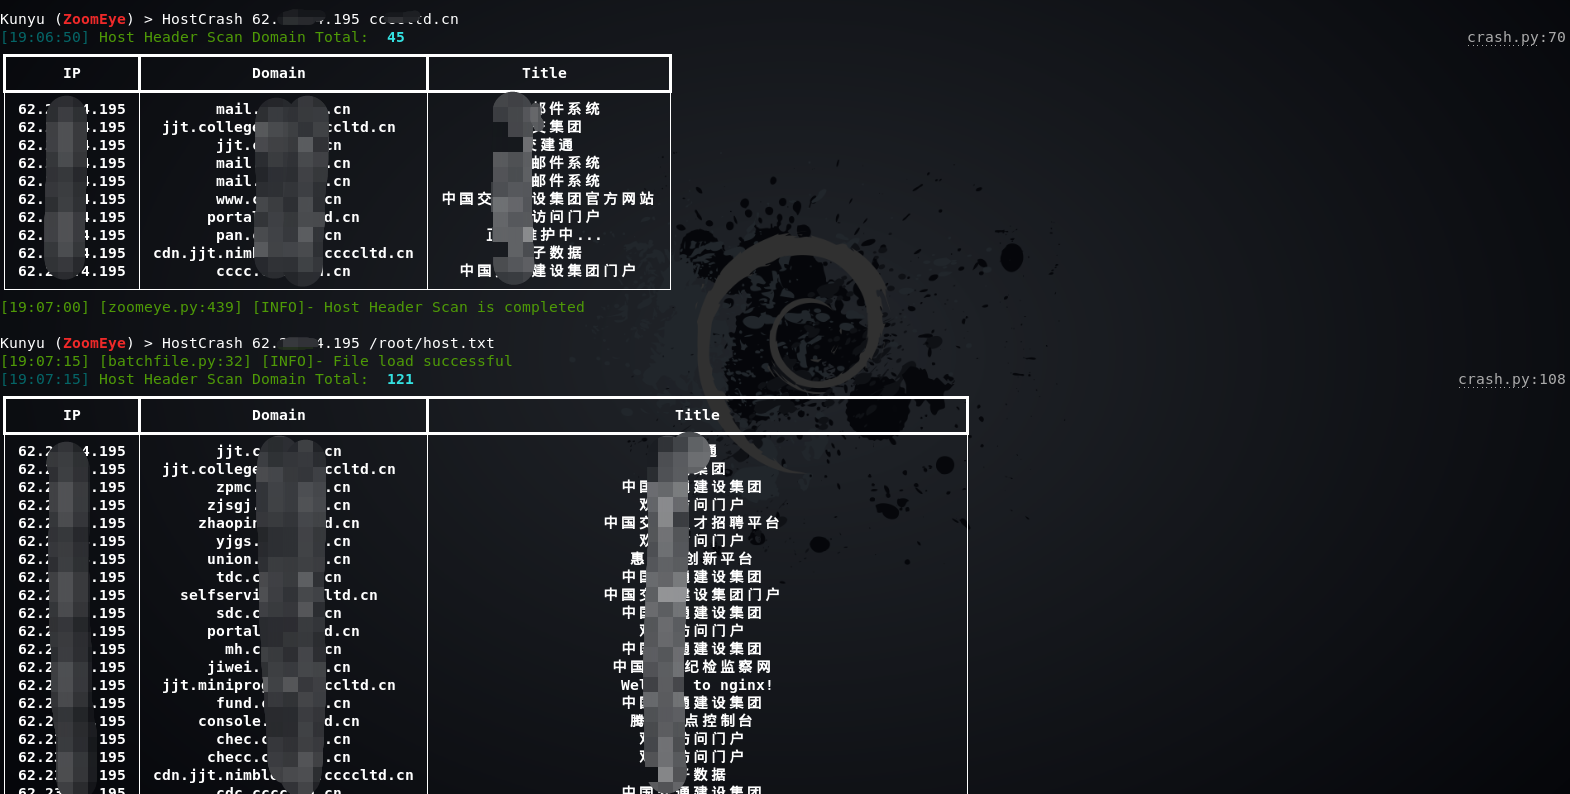
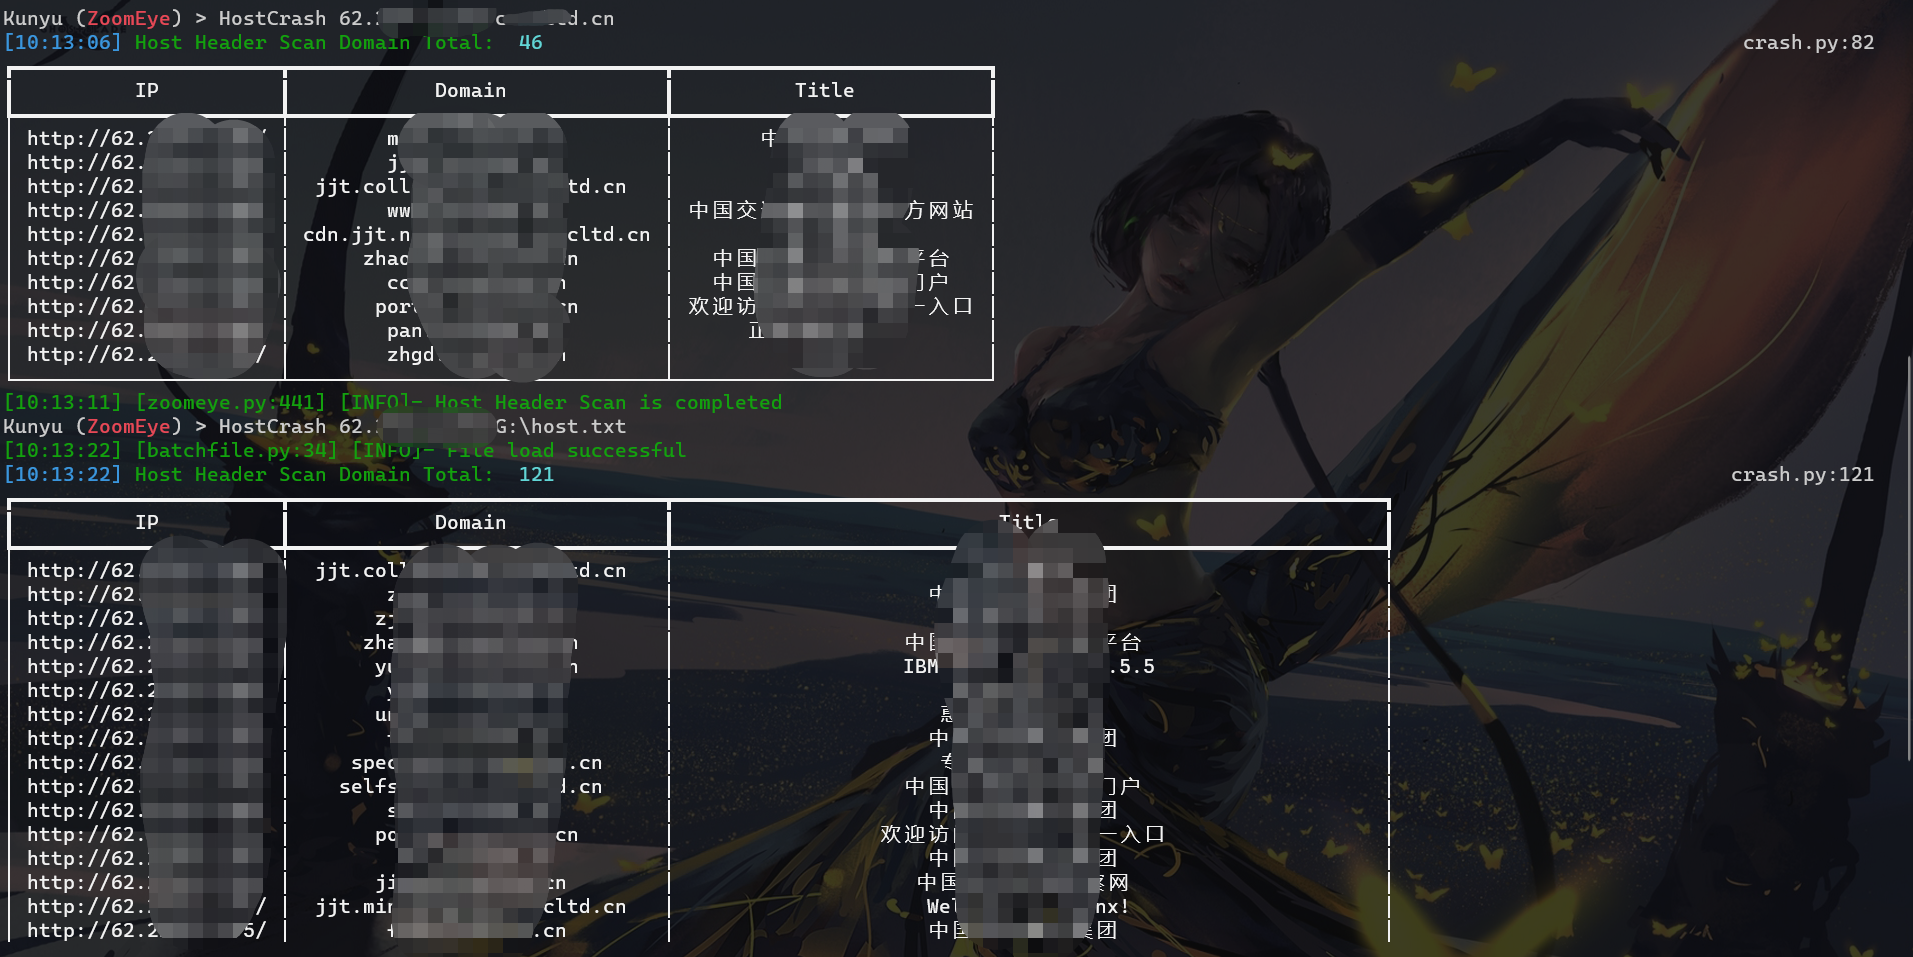
Update Kunyu Version 1.5.0

diff --git a/kunyu/core/crash.py b/kunyu/core/crash.py
@@ -9,6 +9,7 @@
 import re
 import json
 import random
+import sys
 
 import grequests
 import requests
@@ -17,8 +18,8 @@ from kunyu.core import conf
 from rich.console import Console
 from kunyu.utils.log import logger
 from kunyu.utils.convert import convert
-from kunyu.lib.batchfile import get_domain_file
-from kunyu.config.setting import UA, DOMAIN_SEARCH_API, DOMAIN_CHECK_REGEX
+from kunyu.lib.batchfile import get_domain_file, get_file
+from kunyu.config.setting import UA, DOMAIN_SEARCH_API, DOMAIN_CHECK_REGEX, IP_ADDRESS_REGEX
 
 console = Console(color_system="auto", record=True)
 ZOOMEYE_KEY = conf.get("zoomeye", "apikey")
@@ -31,6 +32,7 @@ class HostScan:
             "User-Agent": random.choice(UA)
         }
         self.params = {"type": 1}
+        self.IP_STATUS = 0
         self.__get_login()
 
     # Check whether the HTTP request returns an error
@@ -67,7 +69,6 @@ class HostScan:
             # Dynamically calculate the number of pages that need to be queried to obtain all result sets
             count = int(result["total"] / 30)
             page = count if (result["total"] % 30) == 0 else count + 1
-            console.log("Host Header Scan Domain Total: ", result["total"], style="green")
             # Get ZoomEye Domain result
             for i in range(page):
                 self.params["page"] = str(i + 1)
@@ -76,6 +77,9 @@ class HostScan:
                     data = convert(result["list"][num])
                     domain_list.append(data.name)
 
+            # Remove duplicate domain names
+            domain_list = list(set(domain_list))
+            console.log("Host Header Scan Domain Total: ", len(domain_list), style="green")
             return domain_list
 
         except requests.HTTPError as err:
@@ -89,6 +93,15 @@ class HostScan:
         """
         pattern = re.compile(DOMAIN_CHECK_REGEX)
         return True if pattern.match(search) else False
+
+    def __is_valid_ip(self, ip):
+        """
+            Return whether or not given value is a valid ip address.
+            If the value is valid ip address this function returns ``True``, otherwise False
+            :param ip: ip string to validate
+        """
+        pattern = re.compile(IP_ADDRESS_REGEX)
+        return True if pattern.match(ip) else False
 
     def _get_file(self, search):
         """
@@ -108,23 +121,43 @@ class HostScan:
             console.log("Host Header Scan Domain Total: ", len(domain_list), style="green")
         return domain_list
 
+    def _get_ip_file(self, ip):
+        """
+            Get the array of ip address required for HOST collision
+            If it is IP, directly HOST collision
+            Otherwise, read the file to obtain the IP address
+            :param ip: Enter the main ip address or ip address file path
+        """
+        ip_list = []
+        if self.__is_valid_ip(ip):
+                ip_list.append(ip)
+        else:
+            for ip_address in get_file(ip):
+                ip_list.append(ip_address)
+        return ip_list
+
     def host_scan(self, search, ip):
         """
             Obtain hidden assets through HOST collision
             :param search: Ways to obtain domain names
             :param ip: IP address to be collided
         """
+        resp = []
         crash_list = []
+        protocol = ['http://{}/', 'https://{}/']
         self.params["q"] = search
         domain_list = self._get_file(search)
-        url = "http://{}/".format(ip)
-        resp = []
-        for domain in domain_list:
-            headers = {'Host': domain.strip(),
-                       'User-Agent': random.choice(UA)
-                       }
-            # Concurrent requests through the encapsulated coroutine module
-            resp.append(grequests.get(url, headers=headers, timeout=1))
+        url = self._get_ip_file(ip)
+        for server in protocol:
+            for ip_address in url:
+                urls = server.format(ip_address)
+                for domain in domain_list:
+                    headers = {'Host': domain.strip(),
+                               'User-Agent': random.choice(UA),
+                               'ip': urls
+                               }
+                    # Concurrent requests through the encapsulated coroutine module
+                    resp.append(grequests.get(urls, headers=headers, timeout=2))
         res_list = grequests.map(resp)
         for res in res_list:
             try:
@@ -133,7 +166,7 @@ class HostScan:
                     res.encoding = 'gbk2312'
                     # Get the title of the returned result
                     title = re.findall('<title>(.+)</title>', res.text)
-                    crash_list.append([ip, res.request.headers['Host'], title[0]])
+                    crash_list.append([res.request.headers['ip'], res.request.headers['Host'], title[0]])
 
             except Exception:
                 continue

diff --git a/kunyu/core/__init__.py b/kunyu/core/__init__.py
@@ -18,6 +18,7 @@ import requests
 import configparser
 
 from kunyu.utils import *
+from kunyu.config import setting
 from kunyu.config.__version__ import usage, init, __title__, __help__
 
 parser = argparse.ArgumentParser(prog=__title__)
@@ -39,6 +40,7 @@ parser_init_console.add_argument("--apikey", help='ZoomEye API Key')
 parser_init_console.add_argument("--username", help='ZoomEye Username')
 parser_init_console.add_argument("--password", help='ZoomEye Password')
 parser_init_console.add_argument("--seebug", help='ZoomEye Password')
+parser_init_console.add_argument("--output", help='Set Output File Path')
 
 args = parser.parse_args()
 
@@ -52,6 +54,10 @@ __path = os.path.join(path, ".kunyu.ini")
 conf.read(__path)
 
 def initial_config():
+    """
+        Determine whether the parameters in the configuration file exist
+        If it does not exist, create a parameter and set the initial value to None
+    """
     if not conf.has_section("zoomeye") and not conf.has_section("login"):
         conf.add_section('zoomeye')
         conf.set("zoomeye", "apikey", "None")
@@ -61,6 +67,11 @@ def initial_config():
     if not conf.has_section("seebug"):
         conf.add_section('seebug')
         conf.set("seebug", "apikey", "None")
+
+    # The path of the output file
+    if not conf.has_section("path"):
+        conf.add_section("path")
+        conf.set("path", "output", setting.OUTPUT_PATH)
 
 def _get_login():
     param = '{{"username": "{}", "password": "{}"}}'.format(args.username, args.password)
@@ -88,6 +99,10 @@ try:
 
     if args.seebug:
         conf.set("seebug", "apikey", args.seebug)
+
+    # set output file path
+    if args.output:
+        conf.set("path", "output", args.output)
 
 except requests.HTTPError as err:
     print("\033[31;1m{}\033[0m".format(err))

diff --git a/kunyu/core/zoomeye.py b/kunyu/core/zoomeye.py
@@ -50,7 +50,8 @@ class ZoomeyeSearch(object):
         self.page = 1
         self.method = method
         self.headers = {
-            "User-Agent": random.choice(UA)
+            "User-Agent": random.choice(UA),
+            "author": "ZoomEye Kunyu"
         }
 
     def __call__(self, func):
@@ -82,14 +83,14 @@ class ZoomeyeSearch(object):
                 login_url,
                 data=data,
                 headers=headers,
-                timeout=20
+                timeout=30
             )
         else:
             resp = requests.post(
                 login_url,
                 data=data,
                 headers=headers,
-                timeout=20
+                timeout=30
             )
         self.check_status(resp)
         self.check_error(resp.json())
@@ -326,6 +327,7 @@ class ZoomEye:
         # Use ZooEye batch query mode,Search: "ip:1.1.1.1 ip:2.2.2.2 ip:3.3.3.3"
         for ip in get_file(filename):
             search += "ip:{} ".format(ip)
+        # Determine the type of interface used
         if cls.btype == "host":
             return cls.command_searchhost(search)
 

diff --git a/kunyu/lib/batchfile.py b/kunyu/lib/batchfile.py
@@ -1,4 +1,5 @@
 #!/usr/bin/env python
+# -*- coding: utf-8 -*-
 # encoding: utf-8
 '''
 @author: 风起
@@ -17,7 +18,7 @@ from kunyu.utils.log import logger
 
 
 def getresult(func):
-    __ip_list = []
+
 
     @wraps(func)
     def getfile(file):
@@ -26,6 +27,7 @@ def getresult(func):
             Determine whether it is a txt file
             :param file: The path of the file to be read
         """
+        __ip_list = []
         try:
             # Check File Type
             if file.endswith(".txt"):
@@ -34,7 +36,6 @@ def getresult(func):
                 logger.warning("Only input TXT type files are allowed")
                 raise Exception
 
-            nonlocal __ip_list
             with open(file, "r", encoding='utf-8') as ip_text:
                 for line in ip_text:
                     __ip_list.append(line.strip())

diff --git a/kunyu/config/__version__.py b/kunyu/config/__version__.py
@@ -15,7 +15,7 @@ __license__ = 'GPL-2.0'
 __python_version__ = sys.version.split()[0]
 __platform__ = platform.platform()
 __url__ = "https://github.com/knownsec/Kunyu"
-__version__ = '1.4.0'
+__version__ = '1.5.0'
 __author__ = '风起'
 __Team__ = 'KnownSec 404 Team'
 __author_email__ = 'onlyzaliks@gmail.com'
@@ -64,7 +64,8 @@ init = """
 Usage:
     kunyu -h
     kunyu init -h
-    kunyu init --apikey "01234567-acbd-00000-1111-22222222222"
+    kunyu init --output /root/kunyu/output
+    kunyu init --apikey "xxxxx911-6D2A-12345-4e23-64exxxxx6fb"
     kunyu init --username "404@knownsec.com" --password "P@ssword"
     kunyu init --seebug "012345200157abcdef981bcc89a1452c34d62b8c"
     kunyu init --apikey "01234567-acbd-0000" --seebug "a73503200157"(推荐)

diff --git a/kunyu/lib/export.py b/kunyu/lib/export.py
@@ -13,6 +13,7 @@ import datetime
 import csv
 import xlwt
 
+from kunyu.core import conf
 from kunyu.utils.log import logger
 from kunyu.config import setting
 
@@ -24,11 +25,12 @@ from kunyu.config import setting
     Security researchers can also modify code files as needed.
 """
 
+OUTPUT_PATH = conf.get("path", "output")
 
 def createdir():
     # Create the results output directory.
     __dirnamae = datetime.datetime.now().strftime("%Y%m%d%H%M")
-    path = os.path.expanduser(setting.OUTPUT_PATH)
+    path = os.path.expanduser(OUTPUT_PATH)
     __path = os.path.join(path, __dirnamae)
     setting.OUTPUT_PATH = __path
     if os.path.exists(__path):

diff --git a/README.md b/README.md
@@ -55,6 +55,18 @@ kunyu init --apikey <your zoomeye key> --seebug <your seebug key>
 ```
 ![](./images/setinfo.png)
 
+You need to log in with ZoomEye credentials before using this tool for information collection.
+
+Visit address: https://www.zoomeye.org/
+
+The output file path can be customized by the following command
+
+```
+kunyu init --output C:\Users\风起\kunyu\output
+```
+
+![](./images/setoutput.png)
+
 # 0x03 Tool instructions
 
 ## Detailed command
@@ -179,6 +191,10 @@ In versions after v1.3.1, you can use kunyu to link the console mode of pocsuite
 Through the HOSTS collision, the hidden assets in the intranet can be effectively collided, and the intranet service can be accessed according to the ServerName domain name and IP configured in the middleware httpf.conf. This can be achieved by setting the local hosts file later, because the local hosts file takes precedence. The level is higher than DNS server resolution. Support reverse check through ZoomEye domain name library or read TXT file to get the list of domain names.
 
 ![](./images/searchcrash.png)
+
+HOSTS cross collision
+
+![](./images/searchcrashs.png)
 
 **Data result**
 

diff --git a/doc/README_CN.md b/doc/README_CN.md
@@ -54,6 +54,10 @@ kunyu init --apikey <your zoomeye key> --seebug <your seebug key>
 ```
 ![](../images/setinfo.png)
 
+需要通过ZoomEye登录凭证，才使用该工具进行信息收集。
+
+访问地址：https://www.zoomeye.org/
+
 # 0x03 工具使用
 
 ## 命令详解
@@ -178,6 +182,10 @@ ZoomEye:
 通过HOSTS碰撞，可以有效的碰撞出内网中隐藏的资产，根据中间件httpf.conf中配置的ServerName域名和IP捆绑即可访问内网服务，后续通过设置本地hosts文件实现，因为本地hosts文件优先级高于DNS服务器解析。支持通过ZoomEye域名库反查或者读取TXT文件获取域名列表。
 
 ![](../images/searchcrash.png)
+
+HOSTS交叉碰撞
+
+![](../images/searchcrashs.png)
 
 **数据结果**
 
